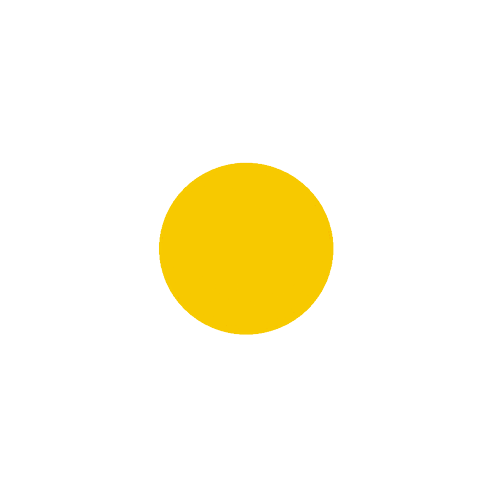
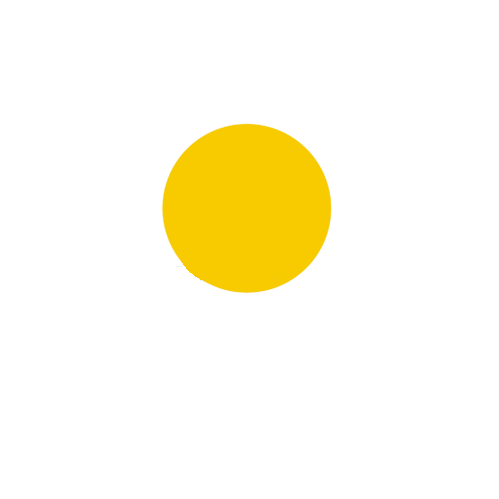
testing image resolution

Changed region(s): [[0.3006, 0.2405, 0.6914, 0.6914]]

diff --git a/index.html b/index.html
@@ -48,9 +48,9 @@
         <!-- <p class="city-name">BOCA RATON</p> -->
         <p id="city">DELRAY BEACH</p>
     </header>
-    <p class="weather">RAIN</p>
+    <p class="weather">SUNNY</p>
     <figure>
-        <img src="./assets/images/10d-large.png">
+        <img src="./assets/images/01d-large.png">
     </figure>
     <section class="main-forecast">
         <article class="temperature-display">
